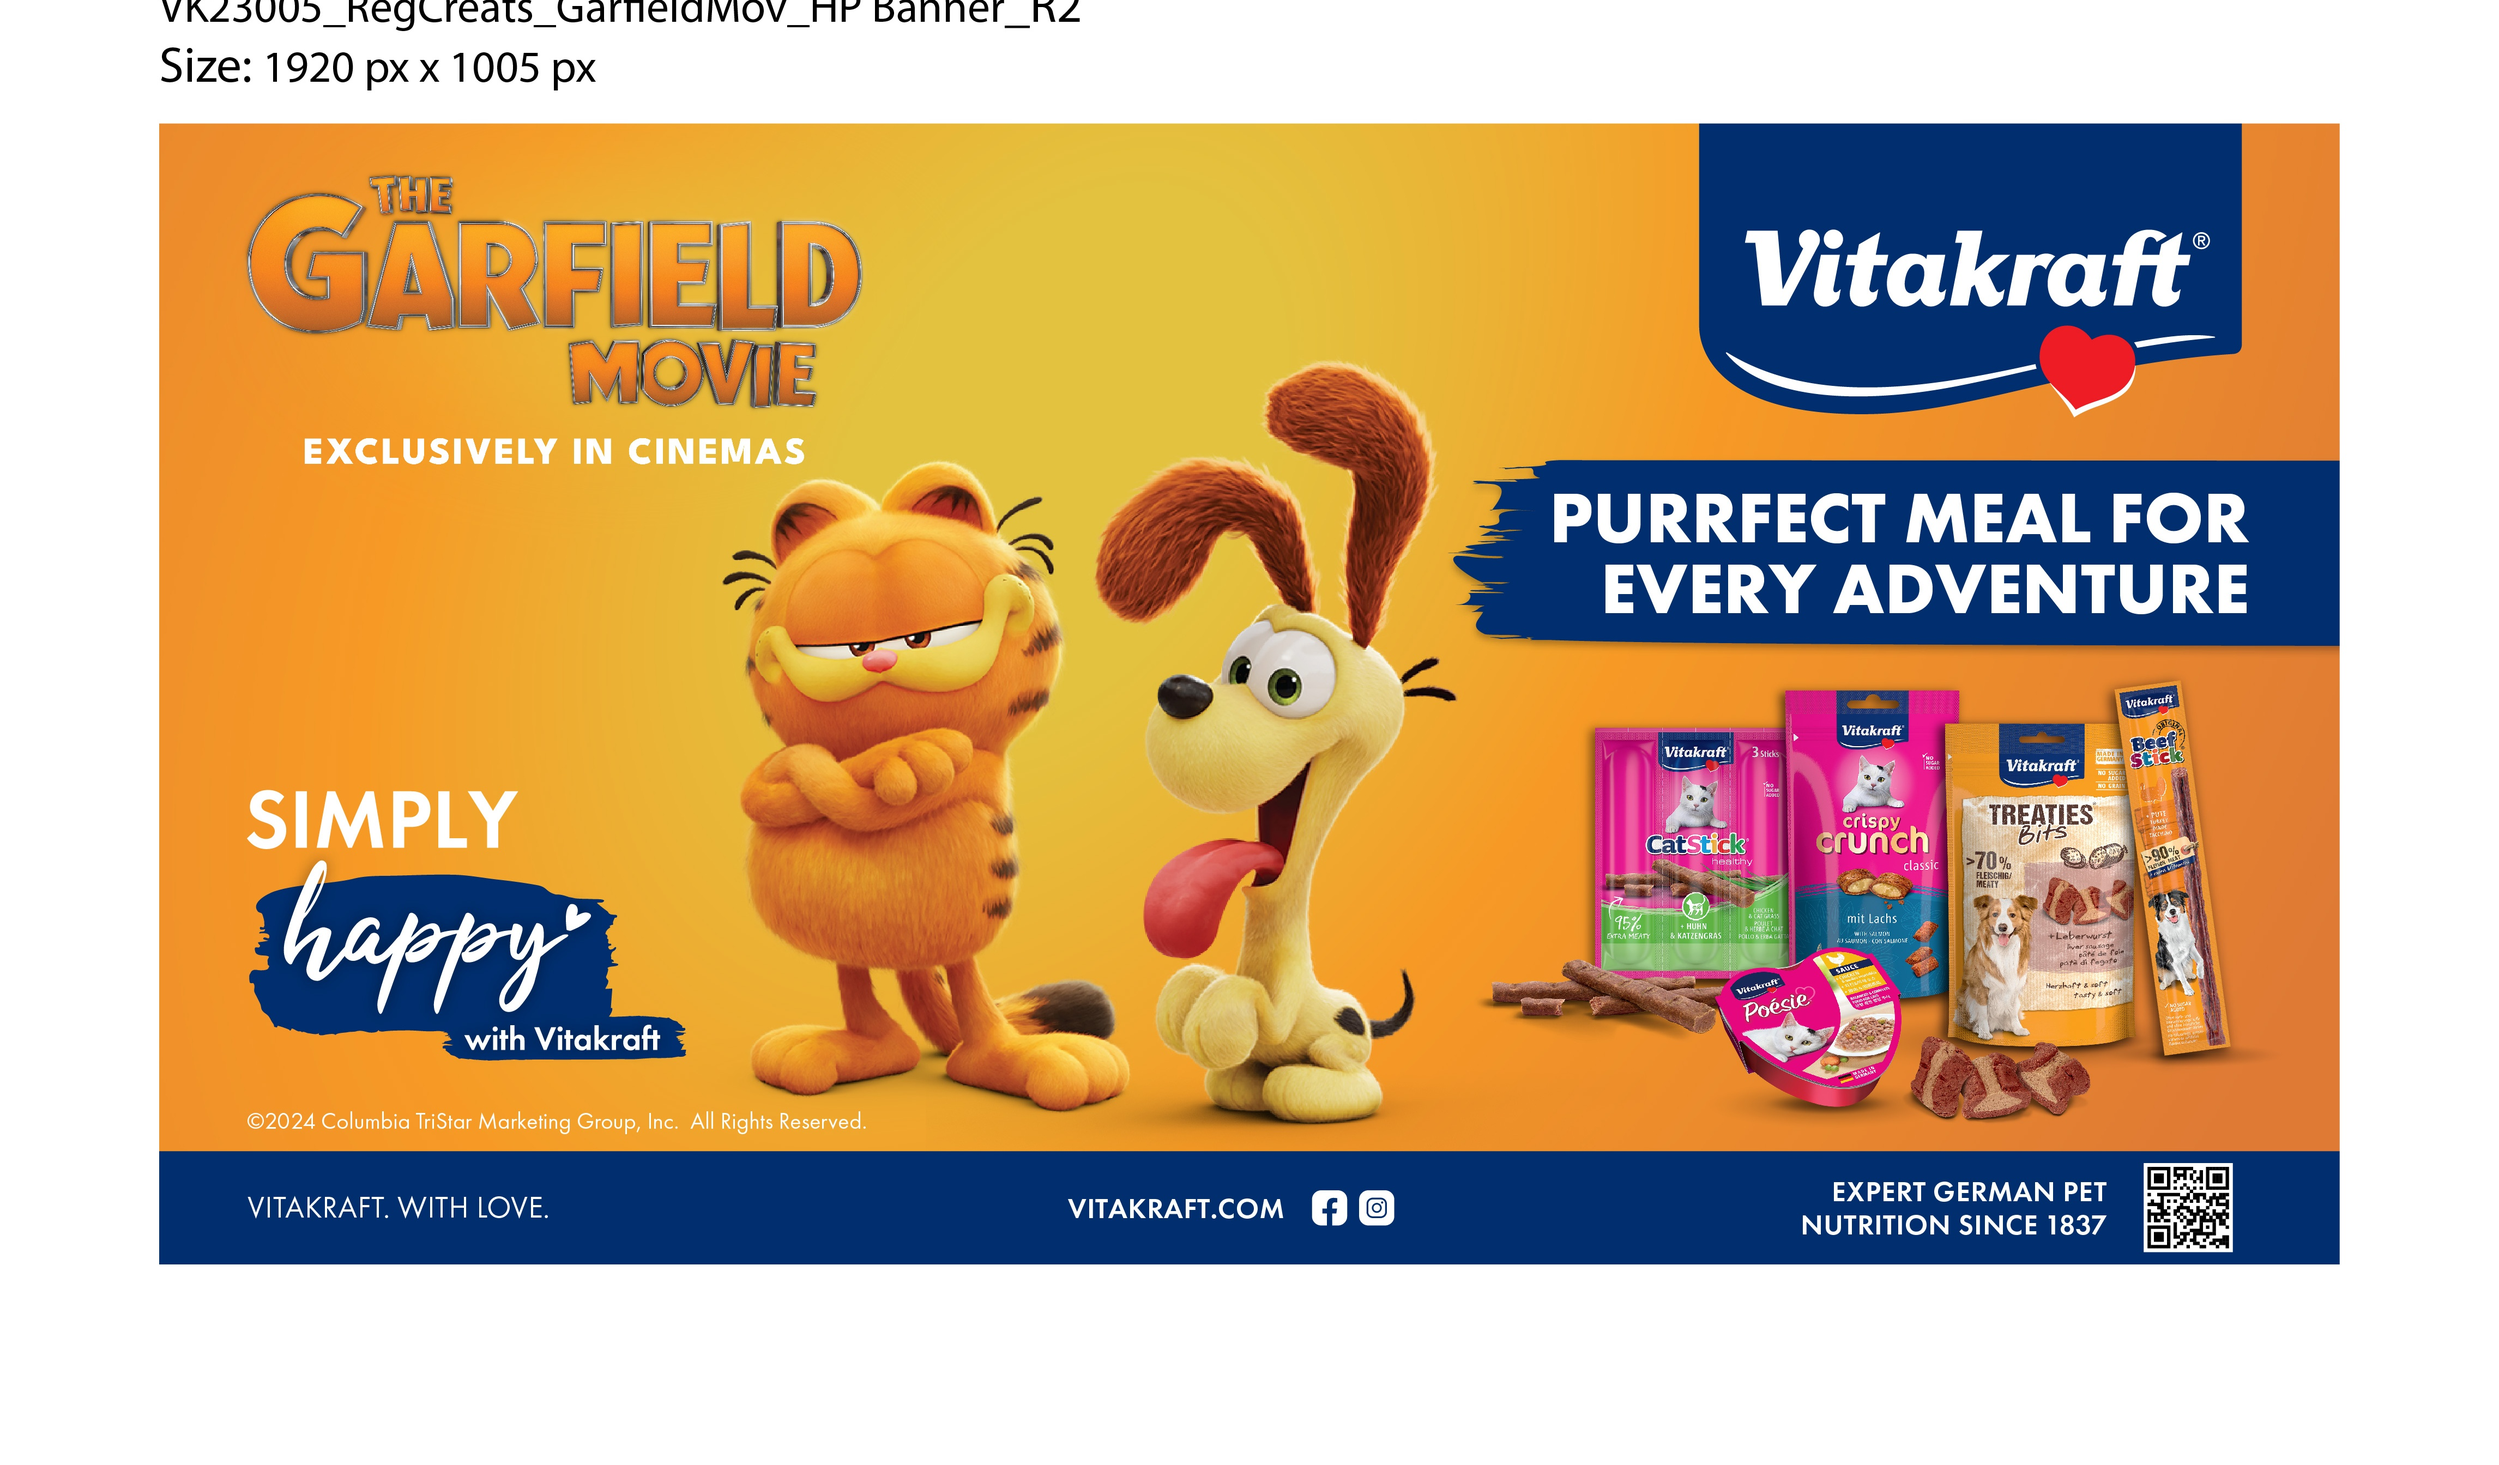
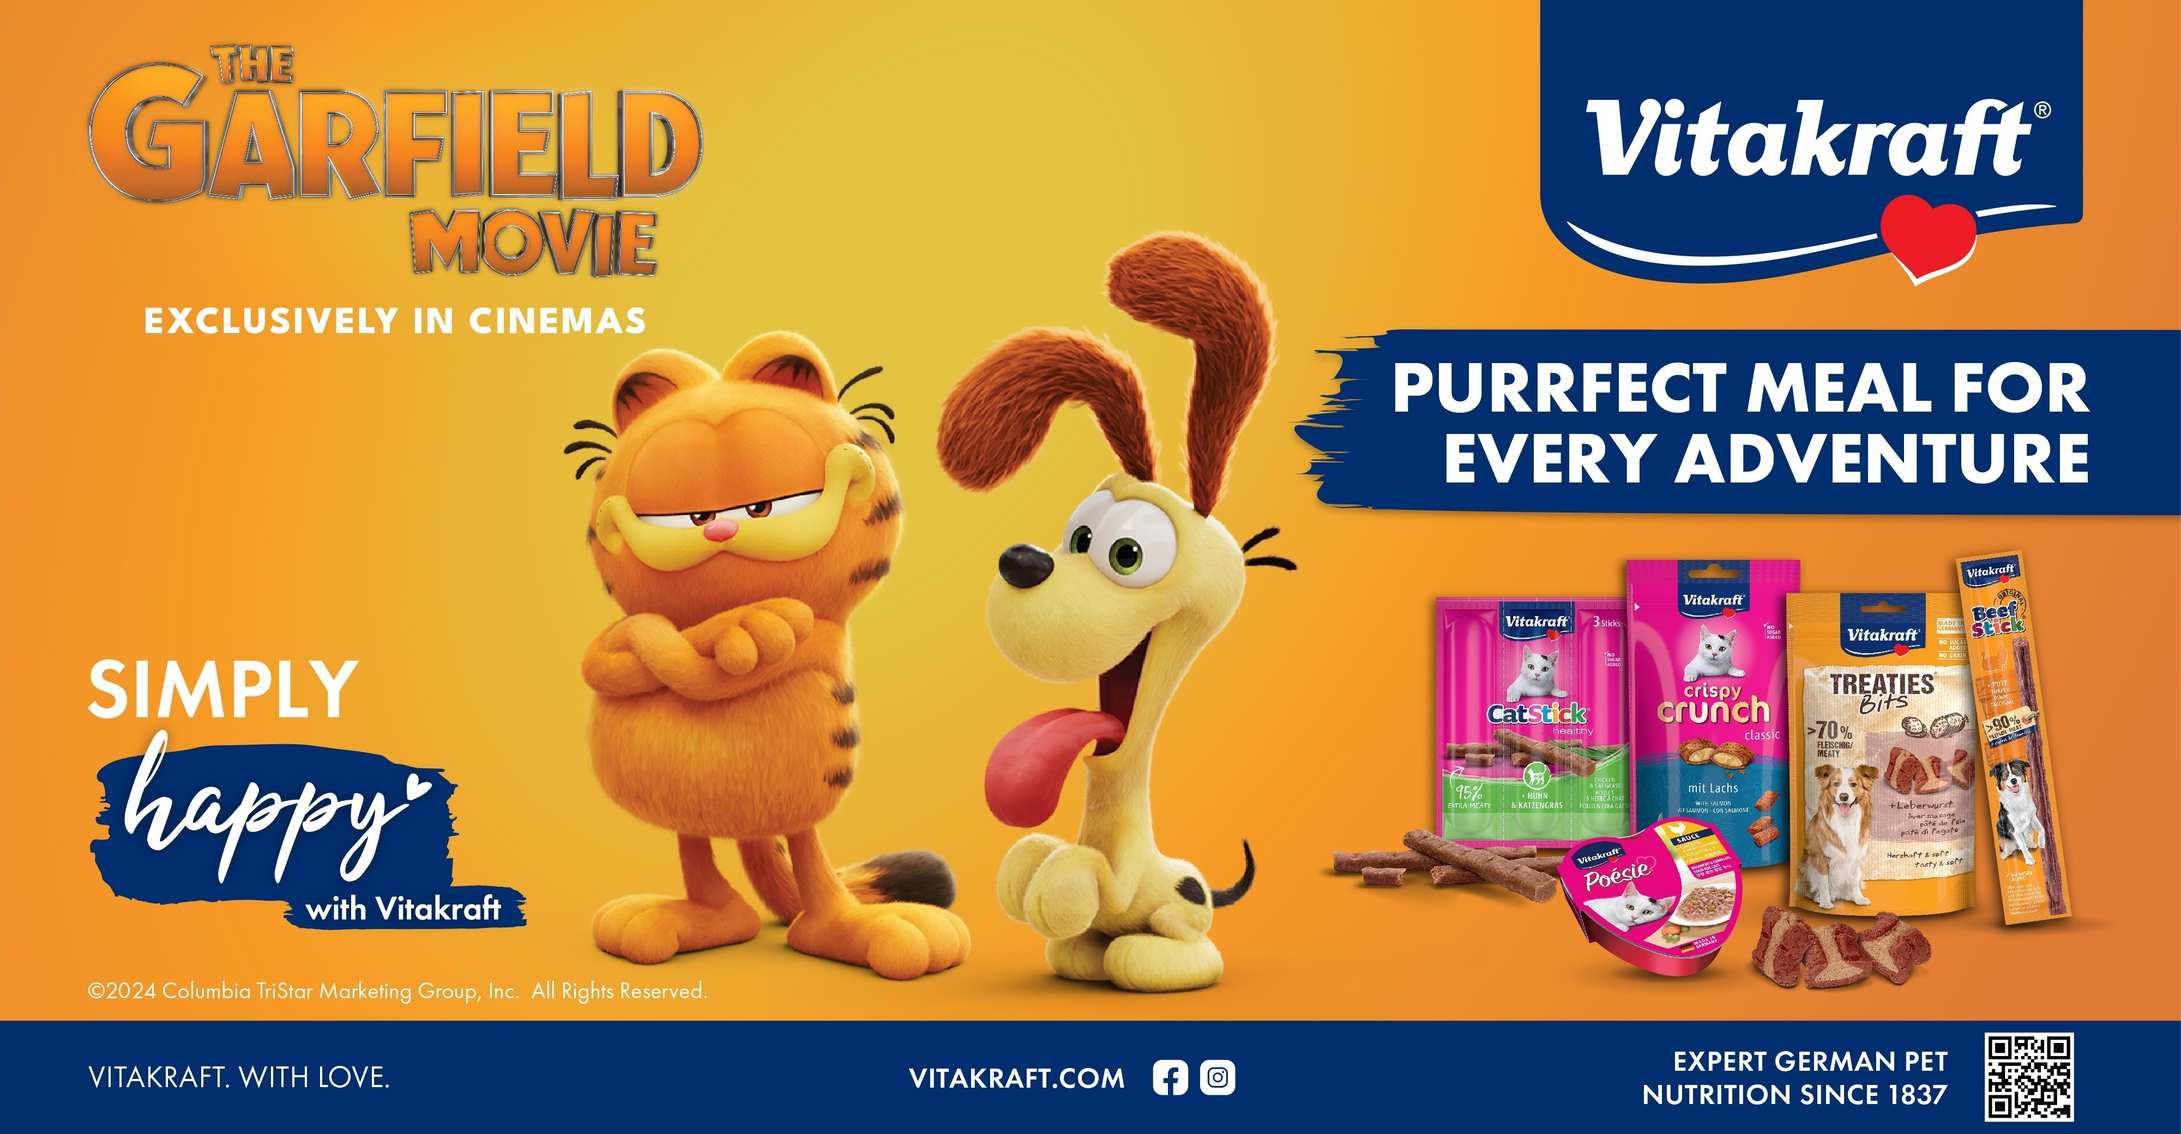
Fix Vitakraft card border, replace Lipton gallery with new creatives
- Crop white border from Vitakraft Garfield homepage card image
- Replace old Lipton Paddington gallery with new web creatives
- Add product pack, retail POS, and activation photos

diff --git a/campaigns/lipton-paddington.html b/campaigns/lipton-paddington.html
@@ -365,10 +365,13 @@
     <h2 class="section-label">Campaign Gallery</h2>
     <div class="gallery-grid">
       <div class="gallery-item gallery-item--wide">
-        <img src="assets/lipton-paddington/activation-2.jpg" alt="Activation 2" loading="lazy">
+        <img src="assets/lipton-paddington/product.jpg" alt="Lipton x Paddington Product Pack" loading="lazy">
       </div>
-      <div class="gallery-item">
-        <img src="assets/lipton-paddington/activation-3.jpg" alt="Activation 3" loading="lazy">
+      <div class="gallery-item gallery-item--wide">
+        <img src="assets/lipton-paddington/retail-pos.png" alt="Retail POS Displays" loading="lazy">
+      </div>
+      <div class="gallery-item gallery-item--wide">
+        <img src="assets/lipton-paddington/activations.png" alt="In-Store Activations and Roadshows" loading="lazy">
       </div>
     </div>
   </section>
